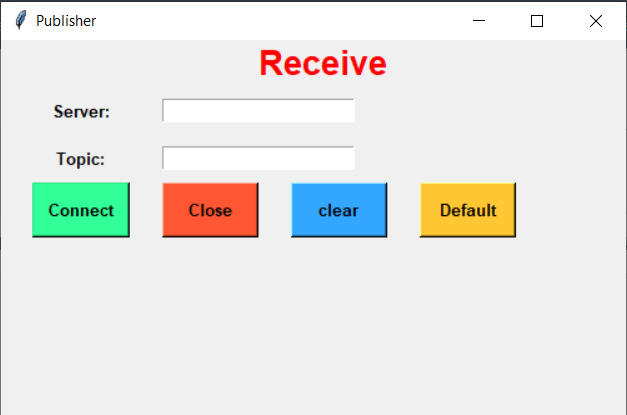
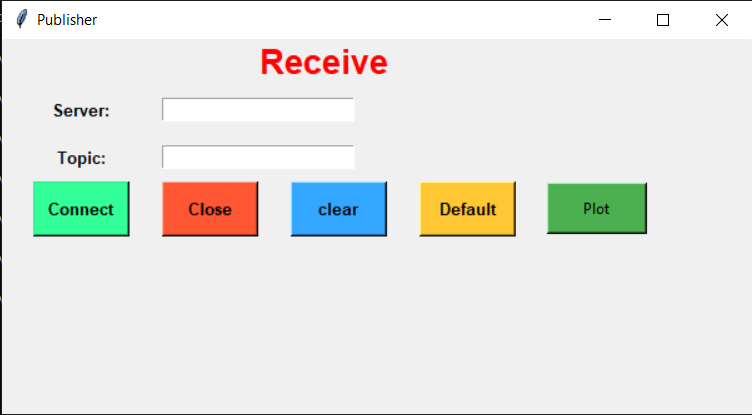
plot and edit readme

diff --git a/Recieve/receive.py b/Recieve/receive.py
@@ -7,11 +7,11 @@ import paho.mqtt.publish as publish
 import tkinter as tk
 import tkinter.font as font
 from tkinter.ttk import *
-
+import plot
 Topic =""
 Server =""
 client = mqtt.Client()
-
+Temp_list = []
 # what happens when connect
 def on_connect(client, userdata, flags, rc):
     '''
@@ -32,8 +32,11 @@ def on_message(client, userdata, msg):
         client : object
         msg    : message recived (object)
     '''
-    messagesArea['text'] += msg.topic + " ==> " + str(msg.payload)+"\n"
-
+    messagesArea['text'] += msg.topic + " ==> " + str(msg.payload)[2:-1]+"\n"
+    try:
+        Temp_list.append(float(str(msg.payload)[2:-1]))
+    except:
+        pass
 
 
 def Connect():
@@ -58,6 +61,7 @@ def clear():
     en1.delete(0, "end")
     en2.delete(0, "end")
     messagesArea['text'] = " "
+    Temp_list = []
 
 
 def Default():
@@ -66,10 +70,12 @@ def Default():
     en2.insert(END, "Topic/IoT/1/")
     messagesArea['text'] = " "
 
+def plotdata():
+    plot.plotData(Temp_list)
 
 window = tk.Tk()
 window.title("Publisher")
-window.geometry("500x300")
+window.geometry("600x300")
 
 
 title = tk.Label(window, text="Receive", fg="red",
@@ -105,6 +111,8 @@ clearbt = tk.Button(window, text="clear", command=clear,
                     bg="#33A7FF", height=buttonsHeight, width=buttonsWidth)
 defaultbt = tk.Button(window, text="Default", command=Default,
                       bg="#FFC733", height=buttonsHeight, width=buttonsWidth)
+plotbt = tk.Button(window, text="Plot", command=plotdata,
+                      bg="#4caf50", height=buttonsHeight, width=buttonsWidth)
 connectbt['font'] = closebt['font'] = clearbt['font'] = defaultbt['font'] = bottonsFont
 
 messagesArea = tk.Label(window, height=10, width=30)
@@ -126,6 +134,8 @@ closebt.grid(row=rowSpan+8, column=5, columnspan=columnSpan, rowspan=rowSpan+2)
 clearbt.grid(row=rowSpan+8, column=9, columnspan=columnSpan, rowspan=rowSpan+2)
 defaultbt.grid(row=rowSpan+8, column=13,
                columnspan=columnSpan, rowspan=rowSpan+2)
+plotbt.grid(row=rowSpan+8, column=17,
+            columnspan=columnSpan, rowspan=rowSpan+2)
 connectionInfoArea.grid(row=15, column=0, columnspan=20, rowspan=1)
 messagesArea.grid(row=17,column=0,columnspan=20,rowspan = 20)
 window.mainloop()

diff --git a/Recieve/plot.py b/Recieve/plot.py
@@ -1,0 +1,6 @@
+import matplotlib.pyplot as plt
+def plotData(list_rec):
+    plt.plot(list_rec)
+    plt.ylabel('Temperature')
+    plt.show()
+    

diff --git a/README.md b/README.md
@@ -4,7 +4,7 @@ Two IoT clients one is used to send and the other to receive provided with GUI, 
 
 ## Send
 
-![send](Images/send.png)
+![send](Images\send.png)
 
 ### Default button 
 Fills default values which are: -
@@ -14,8 +14,7 @@ Fills default values which are: -
 | Server| broker.mqttdashboard.com|
 | Topic|Topic/IoT/1/|
 | Message|Default messages|
-
-![send2](Images/send2.png)
+![send2](Images\send2.png)
 
 ### Clear button
 Reset values of Entries
@@ -28,7 +27,7 @@ sends the message
 
 ## Receive
 
-![receive](Images/Receive1.png)
+![receive](Images\Receive1.png)
 
 ### Default button
 Fills default values which are: -
@@ -38,7 +37,7 @@ Fills default values which are: -
 | Server| broker.mqttdashboard.com|
 | Topic|Topic/IoT/1/|
 
-![receive](Images/Receive2.png)
+![receive](Images\Receive2.png)
 
 ### Clear button
 Reset values of Entries
@@ -52,6 +51,17 @@ Connects to broker
 when connected a message appears
 ![receive3](Images/Receive3.png)
 
+### Plots
+Plots numeric data received
+
+![graph](Images/graph.png)
+
 ## Example
-When a message received from any connected thing like "send.py" it appears in receive window.
+When a message received from any connected thing to the same topic it appears in receive window.
 ![receive4](Images/Receive4.png)
+
+![sendGraph](Images/sendGraph.png)
+![recieveGraph](Images/recieveGraph.png)
+![graph2](Images/graph.png)
+
+
